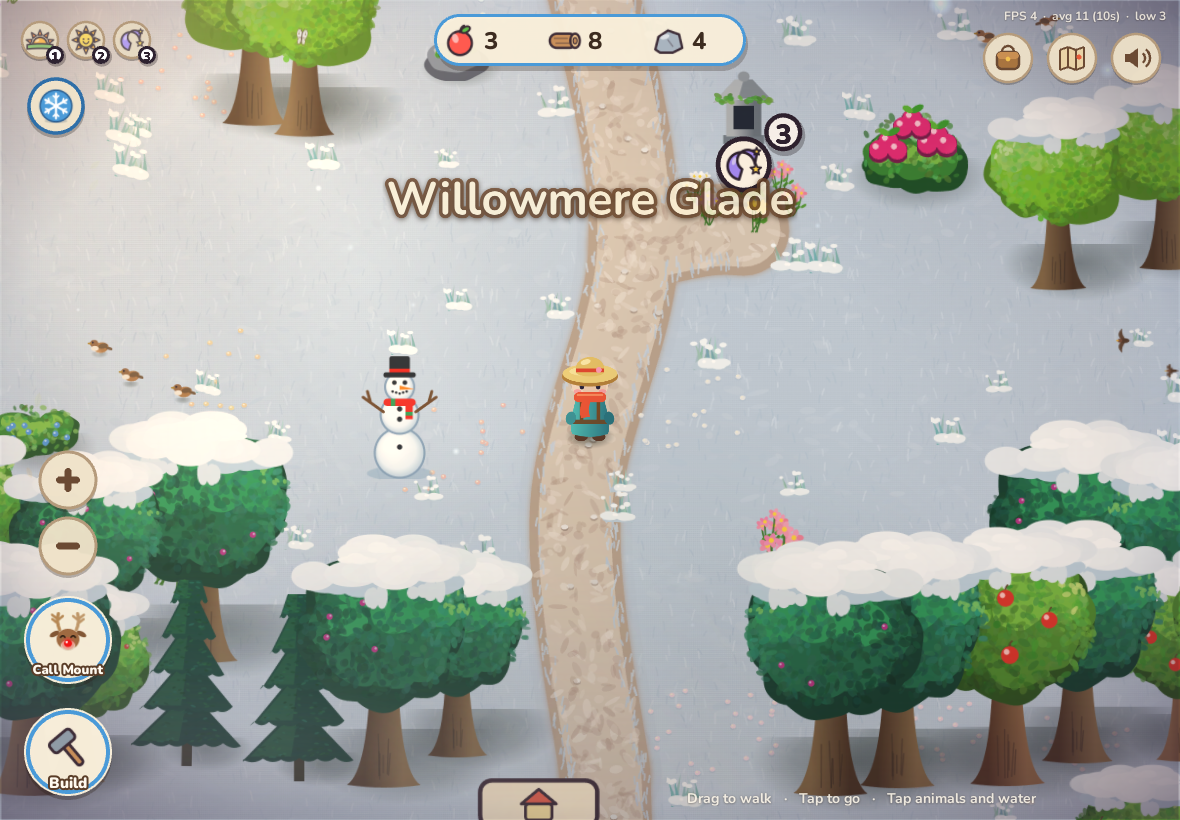
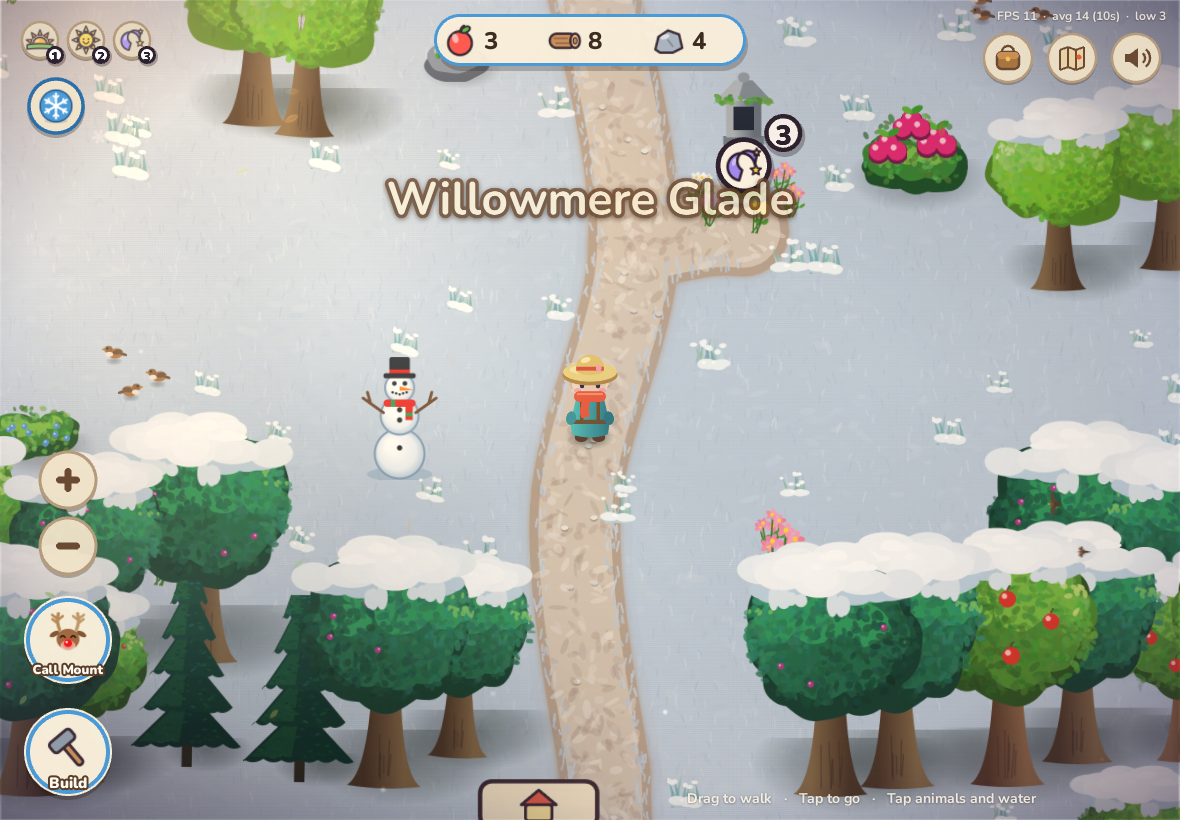
Summer slice 2: tap sunflowers (sway + petals) and beach balls (bounce + spin); What's new summer2

diff --git a/src/themeDress.ts b/src/themeDress.ts
@@ -35,13 +35,18 @@ export class ThemeDresser {
   peeks: Peek[] = [];
   orchardBats: { img: Phaser.GameObjects.Image; ph: number }[] = [];
   wisps: Phaser.GameObjects.Particles.ParticleEmitter | null = null;
-  taps = { jack: 0, pumpkin: 0, bats: 0, peek: 0, candy: 0, leaves: 0, hay: 0, presents: 0, snowman: 0, lights: 0 };
+  taps = { jack: 0, pumpkin: 0, bats: 0, peek: 0, candy: 0, leaves: 0, hay: 0, presents: 0, snowman: 0, lights: 0, sunflower: 0, ball: 0 };
   /** Christmas: presents, snowmen and lit trees to tap (made once, shown only in Christmas). */
   xmasProps: Phaser.GameObjects.Image[] = [];
   presents: Phaser.GameObjects.Image[] = [];
   snowmen: Phaser.GameObjects.Image[] = [];
   litTrees: { tree: Phaser.GameObjects.Image; bulbs: Phaser.GameObjects.Image[]; glow: Phaser.GameObjects.Image; until: number }[] = [];
   xmasBuilt = false;
+  /** Summer: sunflowers to sway and beach balls to bounce (made once, shown only in Summer). */
+  summerProps: Phaser.GameObjects.Image[] = [];
+  sunflowers: Phaser.GameObjects.Image[] = [];
+  balls: Phaser.GameObjects.Image[] = [];
+  summerBuilt = false;
   /** Fall: leaf piles + hay bales (made once, shown only in Fall). */
   fallProps: Phaser.GameObjects.Image[] = [];
   leafPiles: Phaser.GameObjects.Image[] = [];
@@ -137,6 +142,66 @@ export class ThemeDresser {
         },
       });
     }
+  }
+
+  /** Summer props: little sunflower patches that sway and shed petals when tapped, and beach balls
+   *  (by the pond, the pier and home) that bounce up and spin. Made the first time Summer is shown. */
+  private buildSummerProps() {
+    if (this.summerBuilt) return;
+    this.summerBuilt = true;
+    const w = this.w;
+    const rng = mulberry32(621);
+    const free = (x: number, y: number) => !waterAt(x, y, 12) && !w.nav.isBlocked(...w.nav.cellOf(x, y));
+    const put = (x: number, y: number, frame: string, scale: number) => {
+      const img = w.add.image(x, y, atlasOf(frame), frame).setOrigin(0.5, 1).setScale(scale / (frameScale[frame] ?? 2.5)).setDepth(y);
+      this.summerProps.push(img);
+      return img;
+    };
+    const flower = (x: number, y: number, scale: number) => {
+      if (!free(x, y)) return;
+      const img = put(x, y, 'su_sunflower', scale);
+      this.sunflowers.push(img);
+      w.tappables.push({
+        x: () => img.x, y: () => img.y - 30 * scale, r: 34, enabled: () => img.visible,
+        tap: () => {
+          this.taps.sunflower++; w.life.reactions++;
+          sfx.rustle();
+          w.floatText(img.x, img.y - 100 * scale, ['Sunny!', 'Hello sun!', 'So tall!', 'Swish!'][Math.floor(Math.random() * 4)], '#fff1a0');
+          w.burst(img.x, img.y - 80 * scale, 0xffd84a, 10, 'petal');
+          w.tweens.killTweensOf(img);
+          img.setAngle(0);
+          w.tweens.add({ targets: img, angle: { from: -14, to: 14 }, duration: 220, yoyo: true, repeat: 2, ease: 'Sine.easeInOut', onComplete: () => img.setAngle(0) });
+        },
+      });
+    };
+    const ball = (x: number, y: number) => {
+      if (!free(x, y)) return;
+      const img = put(x, y, 'su_ball', 0.95);
+      this.balls.push(img);
+      w.tappables.push({
+        x: () => img.x, y: () => img.y - 16, r: 34, enabled: () => img.visible,
+        tap: () => {
+          this.taps.ball++; w.life.reactions++;
+          sfx.thump();
+          w.floatText(img.x, img.y - 70, ['Boing!', 'Bounce!', 'Wheee!', 'Catch!'][Math.floor(Math.random() * 4)], '#bff4f0');
+          w.burst(img.x, img.y - 14, 0xffffff, 8, 'spark');
+          w.tweens.killTweensOf(img);
+          img.setPosition(img.x, y).setAngle(0);
+          w.tweens.add({ targets: img, y: y - 70, duration: 320, yoyo: true, ease: 'Quad.easeOut', repeat: 1, onComplete: () => img.setY(y) });
+          w.tweens.add({ targets: img, angle: 360, duration: 1280, ease: 'Linear', onComplete: () => img.setAngle(0) });
+        },
+      });
+    };
+    const patch = (x: number, y: number) => { flower(x, y, 1.0); flower(x + 26, y + 10, 0.85); if (rng() < 0.7) flower(x - 24, y + 12, 0.78); };
+    patch(PLAYER_START.x + 120, PLAYER_START.y - 60);
+    patch(COTTAGE.x + 110, COTTAGE.y + 40);
+    patch(VILLAGE_SIGN.x + 90, VILLAGE_SIGN.y - 20);
+    patch(WINDMILL.x - 110, WINDMILL.y + 40);
+    patch(COTTAGE.x - 120, COTTAGE.y + 60);
+    ball(PLAYER_START.x - 130, PLAYER_START.y + 30);
+    ball(POND.x + 190, POND.y - 150);
+    ball(PIER.x - 90, PIER.y0 - 30);
+    ball(VILLAGE_SIGN.x - 40, VILLAGE_SIGN.y + 120);
   }
 
   /** Fall props: crunchy leaf piles along the paths and under trees, hay bales (with pumpkins) at cozy spots. */
@@ -429,6 +494,9 @@ export class ThemeDresser {
     const fp = !!t.fallProps;
     if (fp) this.buildFallProps();
     for (const p of this.fallProps) p.setVisible(fp);
+    const sp = t.id === 'summer';
+    if (sp) this.buildSummerProps();
+    for (const p of this.summerProps) p.setVisible(sp);
     const xp = t.id === 'christmas', wp = t.id === 'winter';
     if (xp || wp) this.buildXmasProps();
     for (const p of this.xmasProps) p.setVisible(xp);

diff --git a/src/mount/xmasArt.ts b/src/mount/xmasArt.ts
@@ -219,9 +219,50 @@ function paintSummerIcon(c: Ctx, w: number) {
   c.fillStyle = hsl(52, 100, 86, 0.7); c.beginPath(); c.ellipse(cx - r * 0.35, cx - r * 0.4, r * 0.45, r * 0.26, -0.5, 0, Math.PI * 2); c.fill();
 }
 
+/** Summer: a tall, bold sunflower (40x96) with two leaves; origin at the stem base. */
+function paintSunflower(c: Ctx, w: number, h: number) {
+  const cx = w / 2, hy = 20;
+  dab(c, cx, h - 3, w * 0.28, 3.5, 0, hsl(100, 40, 25, 0.28));
+  c.strokeStyle = hsl(108, 55, 32); c.lineWidth = 4; c.lineCap = 'round';
+  c.beginPath(); c.moveTo(cx, h - 4); c.quadraticCurveTo(cx + 3, (h + hy) / 2, cx, hy + 6); c.stroke();
+  c.fillStyle = hsl(112, 55, 40);
+  for (const [s, y] of [[-1, h - 30], [1, h - 46]] as [number, number][]) {
+    c.beginPath(); c.ellipse(cx + s * 9, y, 9, 4.5, s * -0.5, 0, Math.PI * 2); c.fill();
+  }
+  c.fillStyle = hsl(46, 100, 55); c.strokeStyle = hsl(36, 90, 42); c.lineWidth = 1.2;
+  for (let i = 0; i < 12; i++) {
+    const a = (i * Math.PI) / 6;
+    c.beginPath(); c.ellipse(cx + Math.cos(a) * 11, hy + Math.sin(a) * 11, 7, 3.6, a, 0, Math.PI * 2); c.fill(); c.stroke();
+  }
+  c.fillStyle = hsl(24, 60, 26); c.beginPath(); c.arc(cx, hy, 8.5, 0, Math.PI * 2); c.fill();
+  c.fillStyle = hsl(30, 55, 40);
+  const rng = mulberry32(77);
+  for (let i = 0; i < 14; i++) { const a = rng() * Math.PI * 2, d = rr(rng, 1, 6.5); c.beginPath(); c.arc(cx + Math.cos(a) * d, hy + Math.sin(a) * d, 1, 0, Math.PI * 2); c.fill(); }
+}
+
+/** Summer: a striped beach ball (40x40) with a soft ground shadow; origin at the shadow. */
+function paintBeachBall(c: Ctx, w: number, h: number) {
+  const cx = w / 2, r = 15, cy = h - 4 - r;
+  dab(c, cx, h - 4, r * 0.95, 3.5, 0, hsl(100, 40, 25, 0.3));
+  const cols = [hsl(2, 85, 56), hsl(0, 0, 98), hsl(205, 85, 52), hsl(0, 0, 98), hsl(48, 100, 56), hsl(0, 0, 98)];
+  c.save(); c.beginPath(); c.arc(cx, cy, r, 0, Math.PI * 2); c.clip();
+  cols.forEach((col, i) => {
+    const a0 = -Math.PI / 2 + (i * Math.PI) / 3, a1 = a0 + Math.PI / 3;
+    c.fillStyle = col; c.beginPath(); c.moveTo(cx, cy - r * 0.15); c.arc(cx, cy - r * 0.15, r * 1.6, a0, a1); c.closePath(); c.fill();
+  });
+  const g = c.createRadialGradient(cx - r * 0.4, cy - r * 0.45, r * 0.1, cx, cy, r);
+  g.addColorStop(0, 'rgba(255,255,255,0.45)'); g.addColorStop(0.6, 'rgba(255,255,255,0)'); g.addColorStop(1, 'rgba(20,30,60,0.28)');
+  c.fillStyle = g; c.fillRect(cx - r, cy - r, r * 2, r * 2);
+  c.restore();
+  c.fillStyle = hsl(0, 0, 100); c.beginPath(); c.arc(cx, cy - r * 0.15, 2.4, 0, Math.PI * 2); c.fill();
+  c.strokeStyle = hsl(220, 30, 30, 0.7); c.lineWidth = 1.4; c.beginPath(); c.arc(cx, cy, r, 0, Math.PI * 2); c.stroke();
+}
+
 export function paintChristmasArt(scene: Phaser.Scene) {
   canvasTex(scene, 'i_winter', 48, 48, (c) => paintWinterIcon(c, 48), 2);
   canvasTex(scene, 'i_summer', 48, 48, (c) => paintSummerIcon(c, 48), 2);
+  canvasTex(scene, 'su_sunflower', 40, 96, (c) => paintSunflower(c, 40, 96));
+  canvasTex(scene, 'su_ball', 40, 40, (c) => paintBeachBall(c, 40, 40));
   ([['xm_present0', 2, 46], ['xm_present1', 142, 2], ['xm_present2', 212, 46], ['xm_present3', 46, 2]] as [string, number, number][])
     .forEach(([k, hue, rib]) => canvasTex(scene, k, 44, 44, (c) => paintPresent(c, 44, 44, hue, rib)));
   canvasTex(scene, 'xm_snowman', 56, 90, (c) => paintSnowman(c, 56, 90));

diff --git a/tests/summer.spec.ts b/tests/summer.spec.ts
@@ -61,6 +61,33 @@ test('summer: sunny look, own soundscape, picker', async ({ page }) => {
     expect(c.snowmen.length).toBe(0);
     expect((await cozy(page, 'state')).soundscape).toBe('summer');
 
+    // Slice 2: sunflower patches and beach balls to tap, only in Summer.
+    let su = await cozy(page, 'summer()');
+    expect(su.sunflowers.length).toBeGreaterThanOrEqual(8);
+    expect(su.balls.length).toBeGreaterThanOrEqual(3);
+    const tp = (x: number, y: number) => page.evaluate(([x, y]) => (window as any).__cozy.teleport(x, y), [x, y]);
+    const tapWorld = async ([x, y]: [number, number]) => {
+      const s = await cozy(page, `worldToScreen(${x}, ${y})`);
+      await page.touchscreen.tap(Math.round(s.x), Math.round(s.y));
+      await page.waitForTimeout(600);
+    };
+    await tp(su.sunflowers[0][0], su.sunflowers[0][1] + 110); await page.waitForTimeout(1500); await tapWorld(su.sunflowers[0]);
+    await tp(su.balls[0][0], su.balls[0][1] + 110); await page.waitForTimeout(1500); await tapWorld(su.balls[0]);
+    await page.waitForTimeout(250);
+    su = await cozy(page, 'summer()');
+    expect(su.taps.sunflower).toBeGreaterThanOrEqual(1);
+    expect(su.taps.ball).toBeGreaterThanOrEqual(1);
+    await tp(905, 1300);
+    await page.waitForTimeout(3500);
+    await page.screenshot({ path: `${SHOTS}/summer-props.png` });
+    await cozy(page, "setTheme('fall')");
+    await page.waitForTimeout(800);
+    su = await cozy(page, 'summer()');
+    expect(su.sunflowers.length + su.balls.length).toBe(0);
+    await cozy(page, "setTheme('summer')");
+    await page.waitForTimeout(800);
+    expect((await cozy(page, 'summer()')).balls.length).toBeGreaterThanOrEqual(3);
+
     // The menu has all six theme buttons, clear of the tabs and inside the panel.
     const bag = await page.evaluate(() => { const u = (window as any).__game.scene.getScene('ui'); return { x: u.bagC.x, y: u.bagC.y }; });
     await page.touchscreen.tap(bag.x, bag.y);

diff --git a/src/whatsnew.ts b/src/whatsnew.ts
@@ -3,12 +3,12 @@
 // Keep each bullet short and simple: kids read these.
 // icon: 'wood' | 'fruit' | 'berry' | 'star' | 'heart' (a little picture beside the line).
 
-export const VERSION = '2026-10-23-summer1';
+export const VERSION = '2026-10-23-summer2';
 
 export type WhatsNewItem = { icon: 'wood' | 'fruit' | 'berry' | 'star' | 'heart'; text: string };
 
 export const ITEMS: WhatsNewItem[] = [
-  { icon: 'heart', text: 'A new Summer theme! Tap the sun to make the glade bright and sunny. Watch the yellow butterflies and listen to the happy summer music.' },
+  { icon: 'heart', text: 'A new Summer theme! Tap the sun to make the glade bright and sunny. Tap the sunflowers to make them dance and tap a beach ball to bounce it!' },
   { icon: 'star', text: 'A new Winter theme! Tap the snowflake to make the whole glade snowy and quiet. Say hi to the snowmen and listen to the soft winter music.' },
   { icon: 'berry', text: 'Go inside the Garden shed and the Fishing Hut! Water the flower pots and pick the blooms, or tap the fishing hole to cast your line and catch a fish.' },
   { icon: 'wood', text: 'Build toys in the Workshop! Tap your Workshop, then Go inside! Tap the workbench, pick a toy boat, birdhouse, frog or horsey, then tap tap tap to hammer it. Uses your wood and stone.' },

diff --git a/src/scenes/World.ts b/src/scenes/World.ts
@@ -1563,6 +1563,12 @@ export class WorldScene extends Phaser.Scene {
           bulbs: d.litTrees.reduce((n, l) => n + l.bulbs.filter((b) => b.visible).length, 0),
           taps: { presents: d.taps.presents, snowman: d.taps.snowman, lights: d.taps.lights } };
       },
+      /** Test hook: Summer props (visible sunflowers and beach balls, tap point) and their tap counts. */
+      summer() {
+        const d = self.dresser, r = Math.round;
+        return { sunflowers: d.sunflowers.filter((p) => p.visible).map((p) => [r(p.x), r(p.y - 30 * (p.scaleY * 2.5))]),
+          balls: d.balls.filter((p) => p.visible).map((p) => [r(p.x), r(p.y - 16)]), taps: { sunflower: d.taps.sunflower, ball: d.taps.ball } };
+      },
       villageEvent: (e: 'merchant' | 'rain' | 'festival') => self.village.start(e),
       mount: () => self.mount.snapshot(),
       callMount: (id?: string) => self.mount.call(id),
